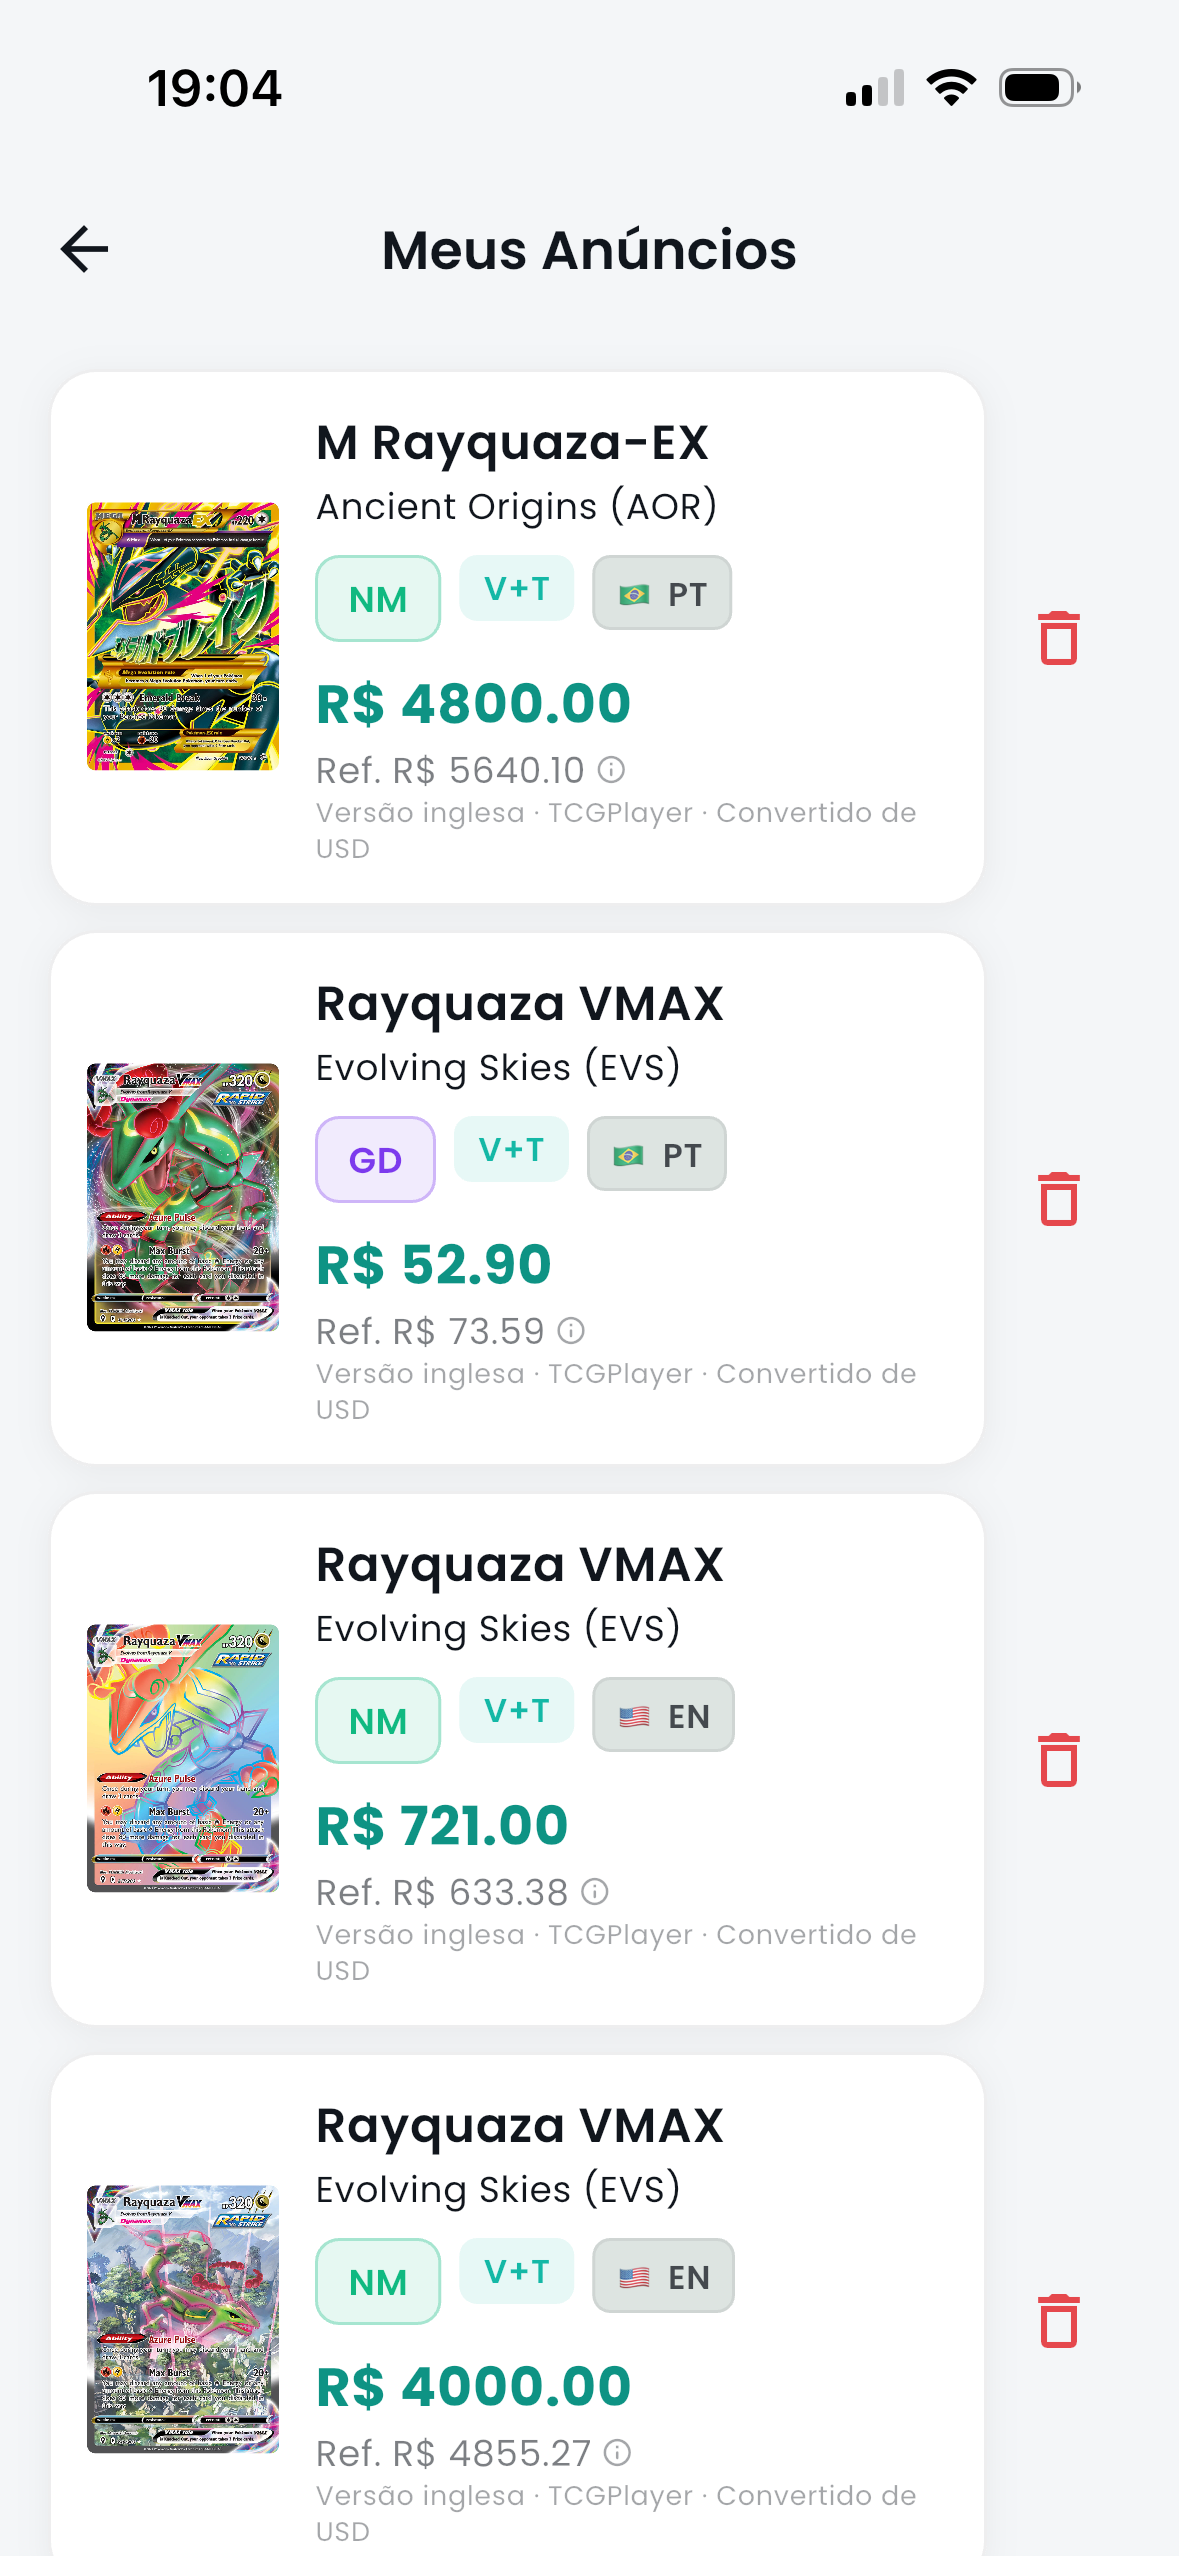
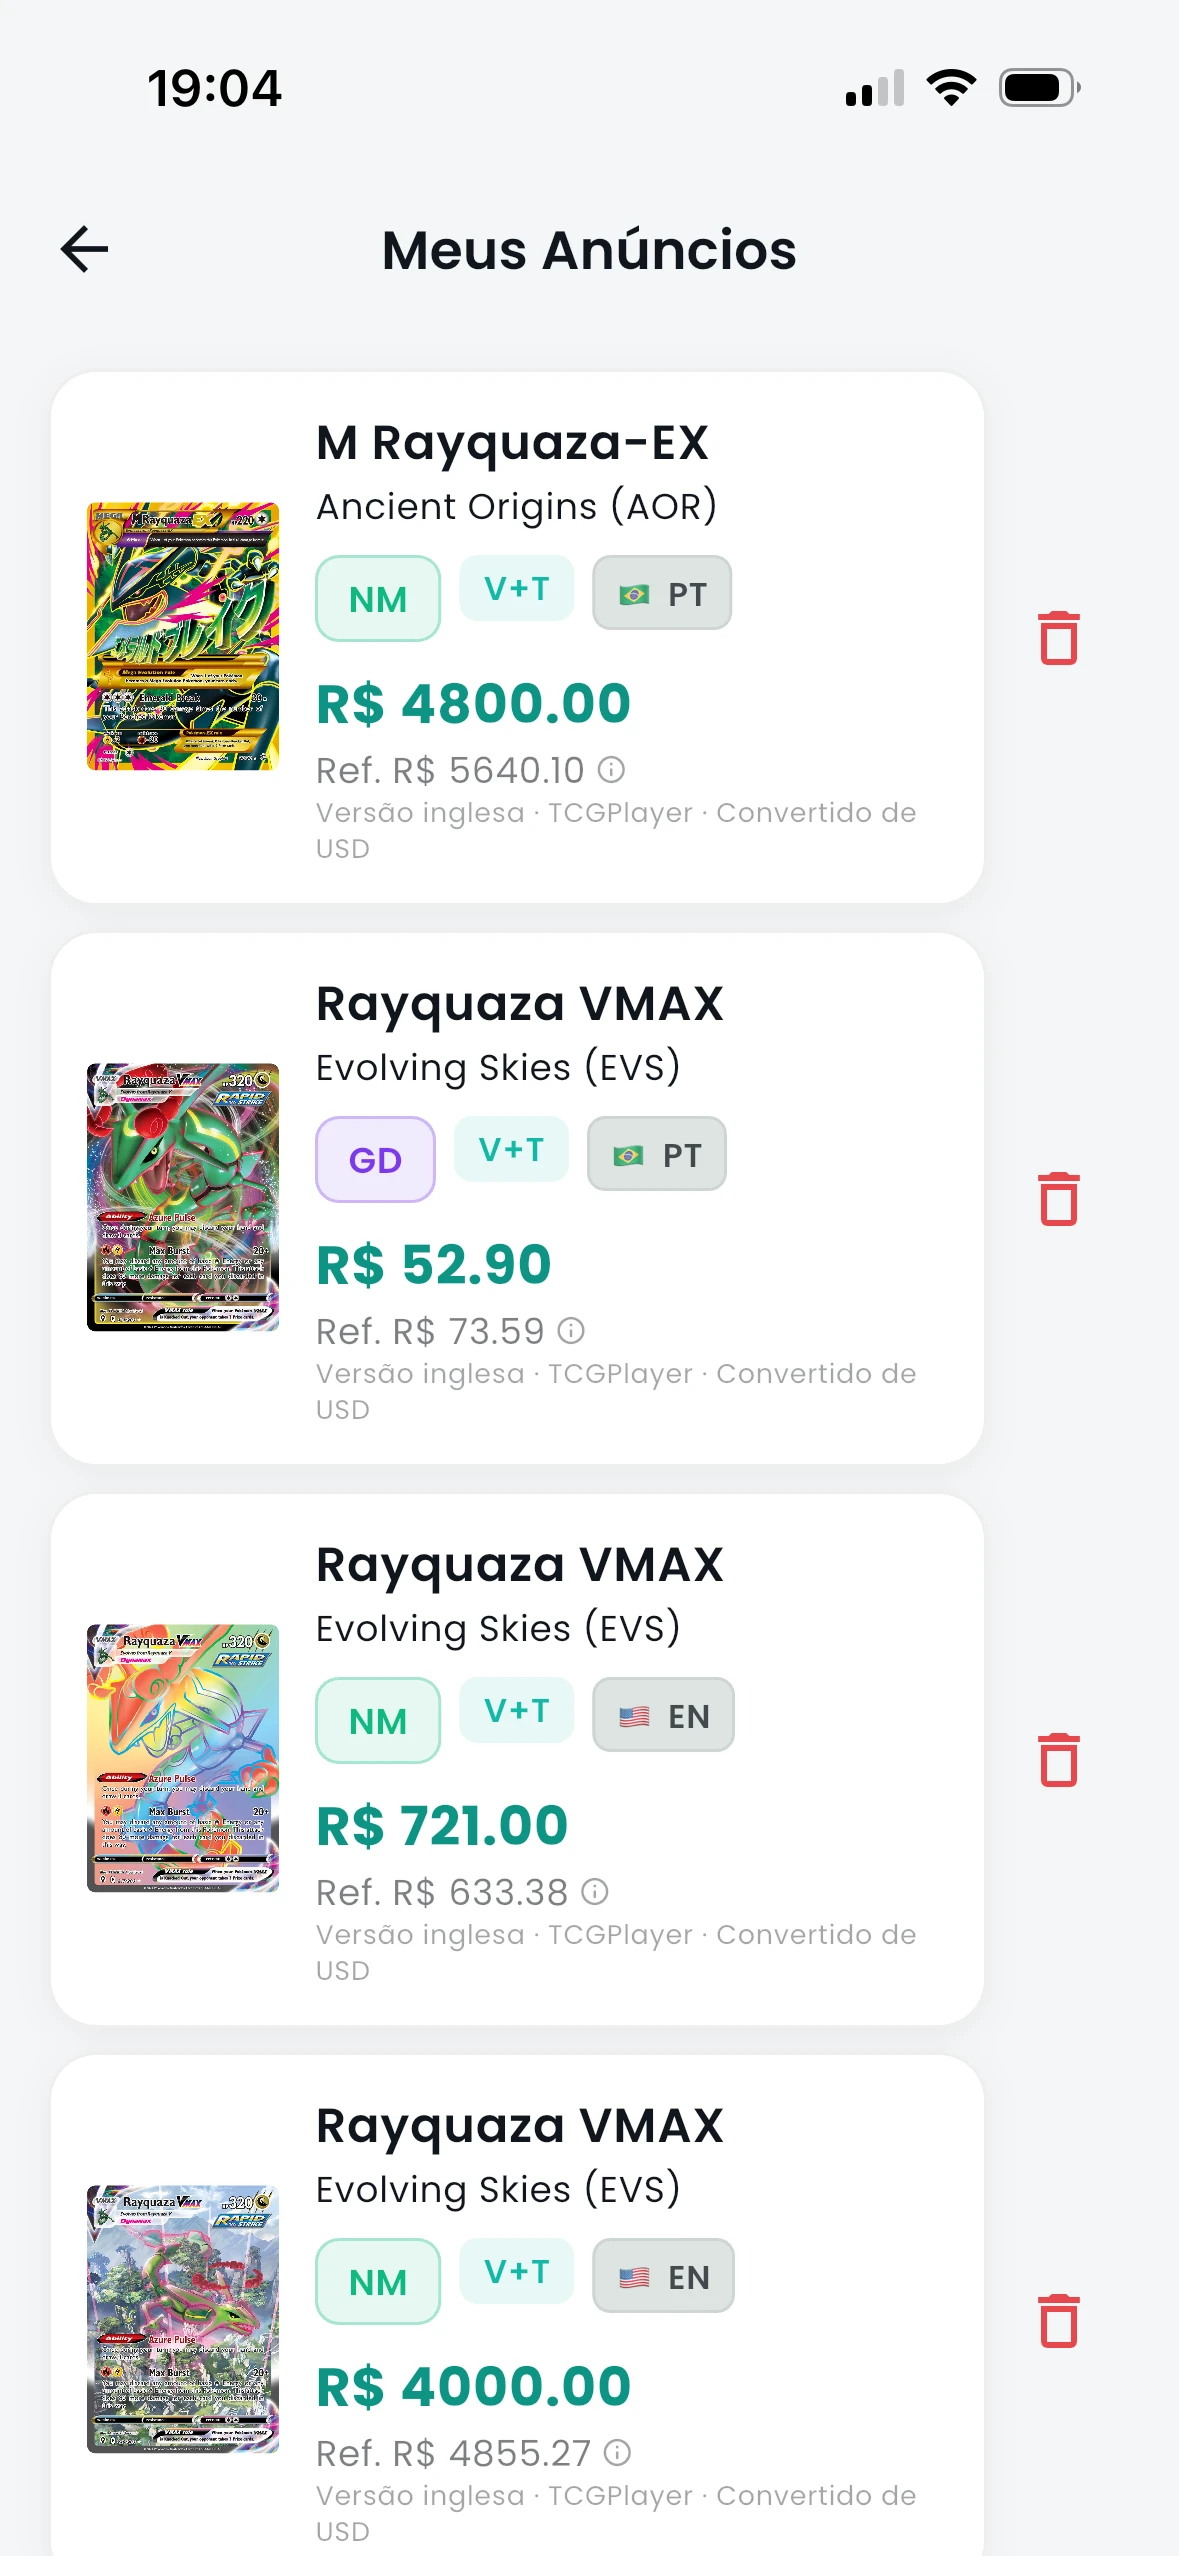
Regera webps a partir dos novos PNGs e atualiza referência de troca2 para swipe

diff --git a/components/sections/PhoneScroll.tsx b/components/sections/PhoneScroll.tsx
@@ -66,7 +66,7 @@ function TradeSwipeScreen() {
   return (
     <div className="relative h-full w-full">
       <Image
-        src="/images/troca2.webp"
+        src="/images/swipe.webp"
         alt=""
         fill
         unoptimized
